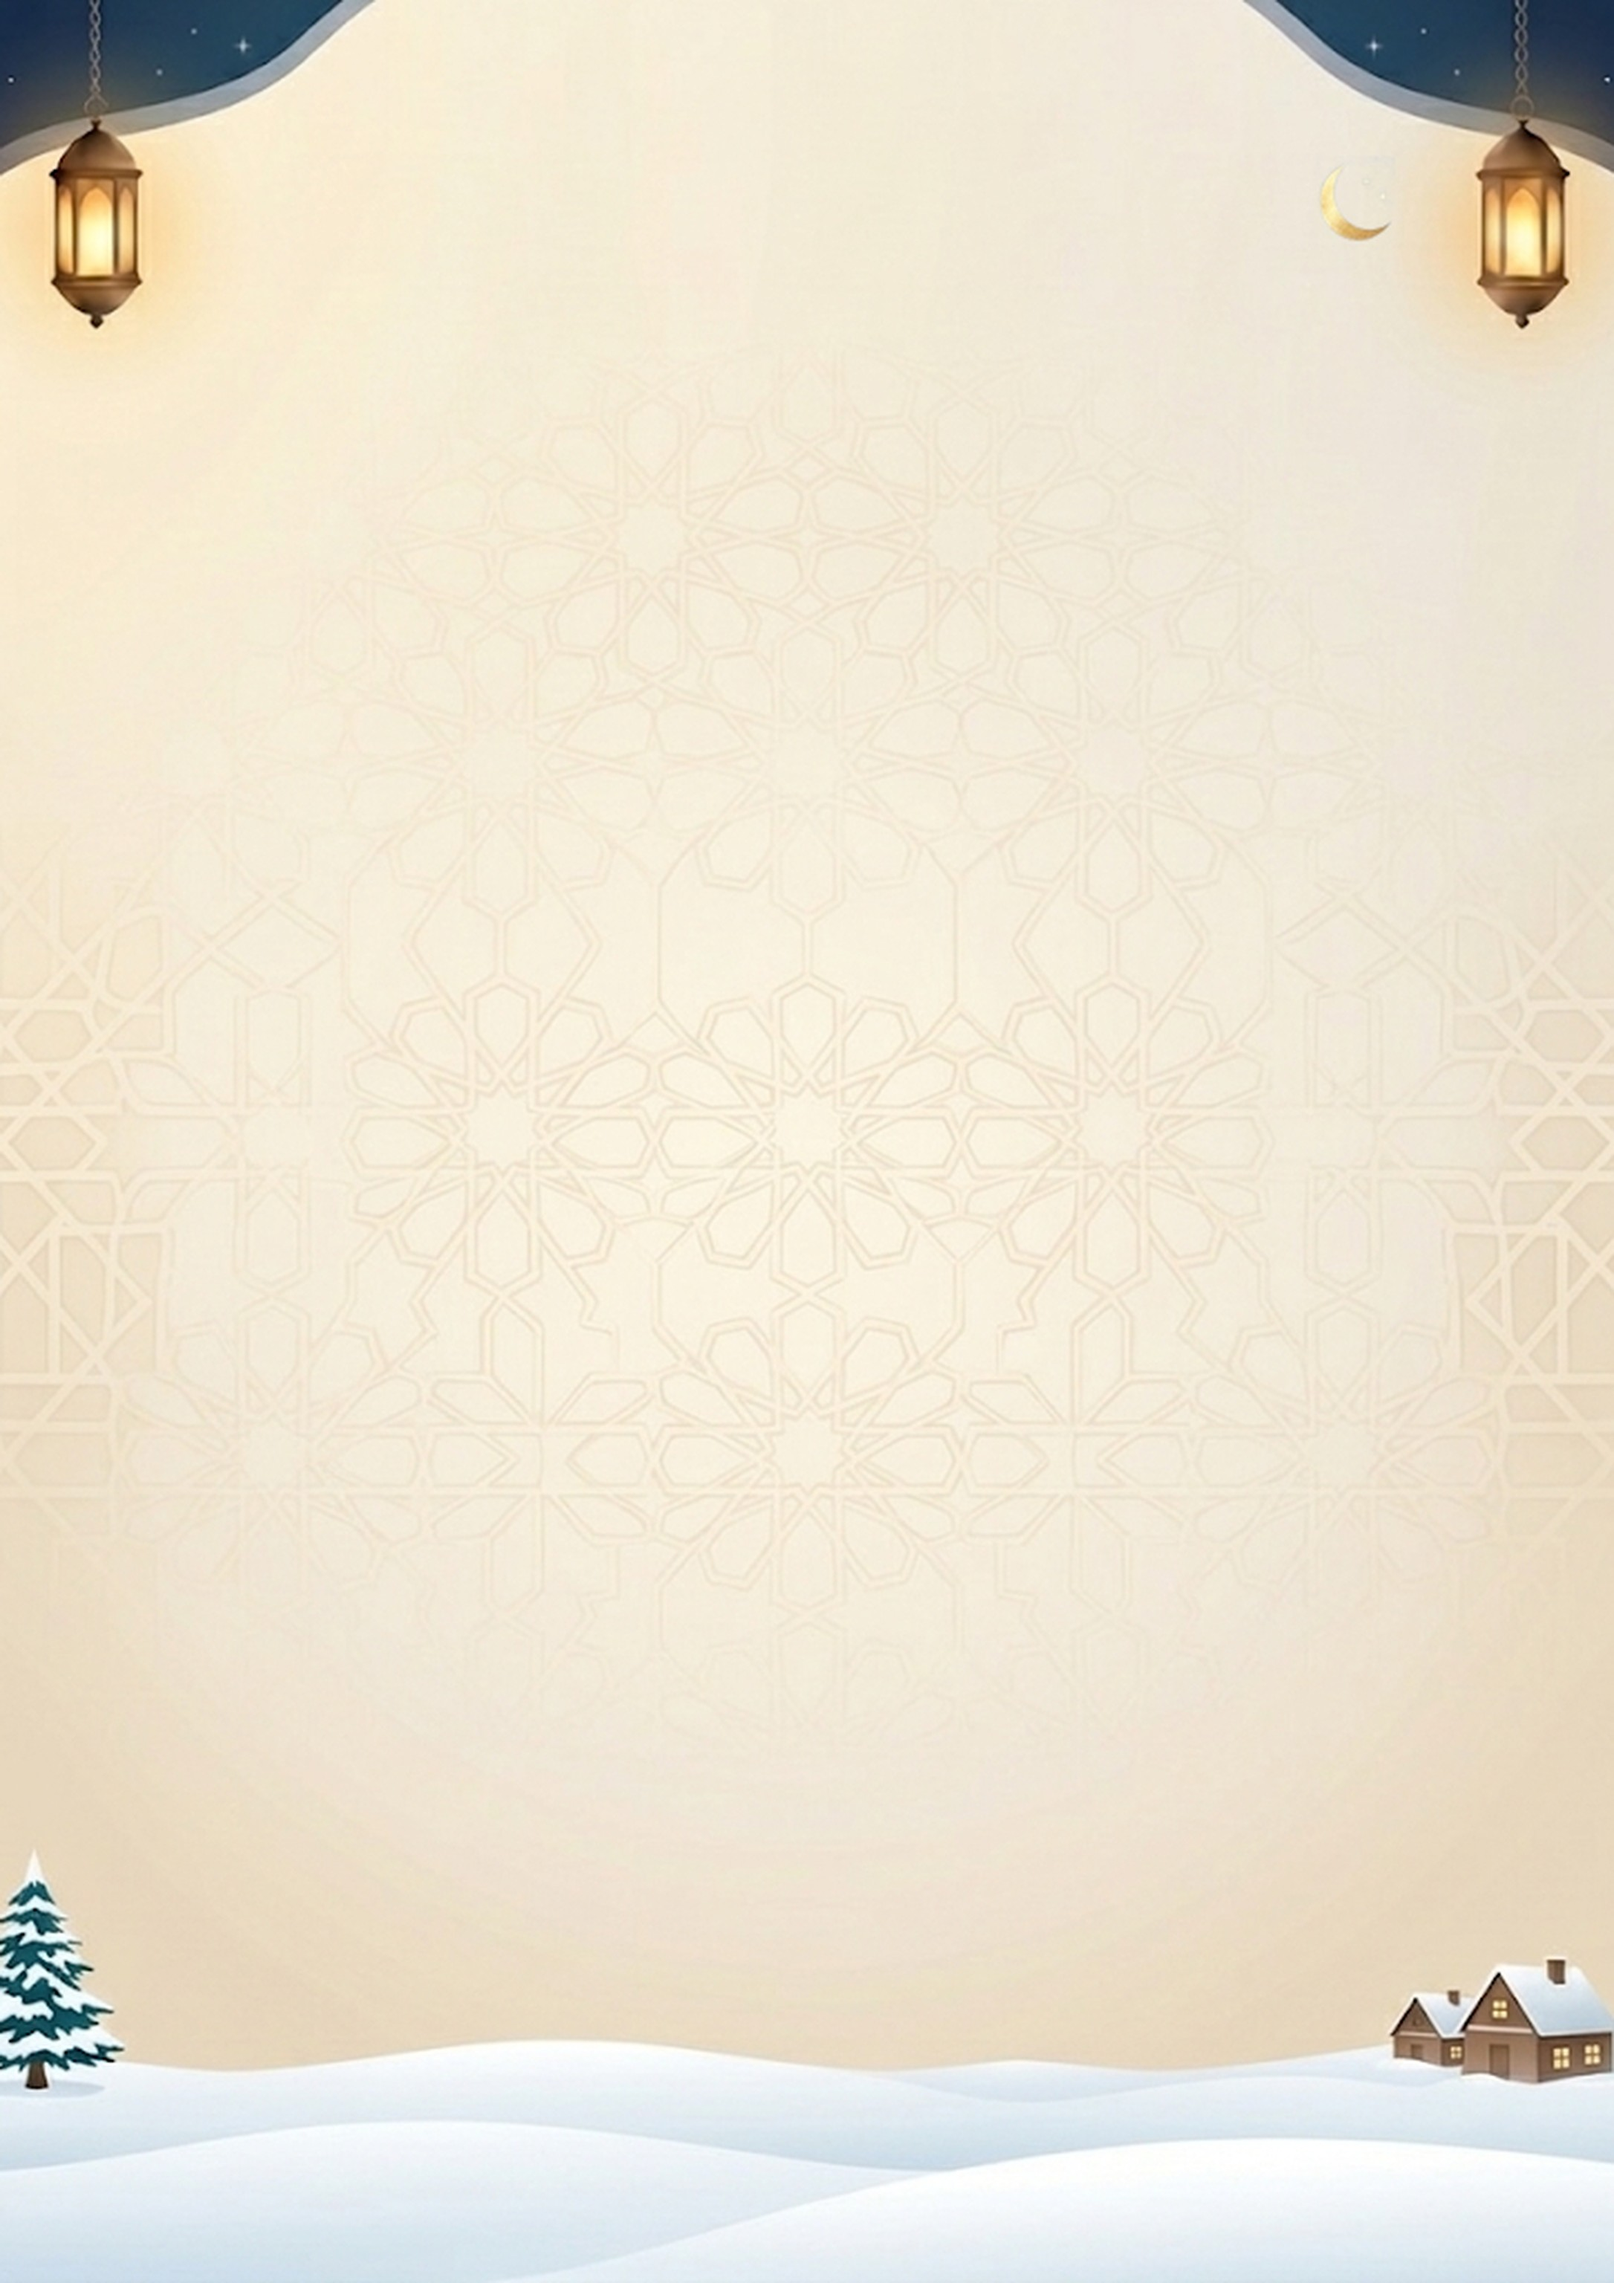
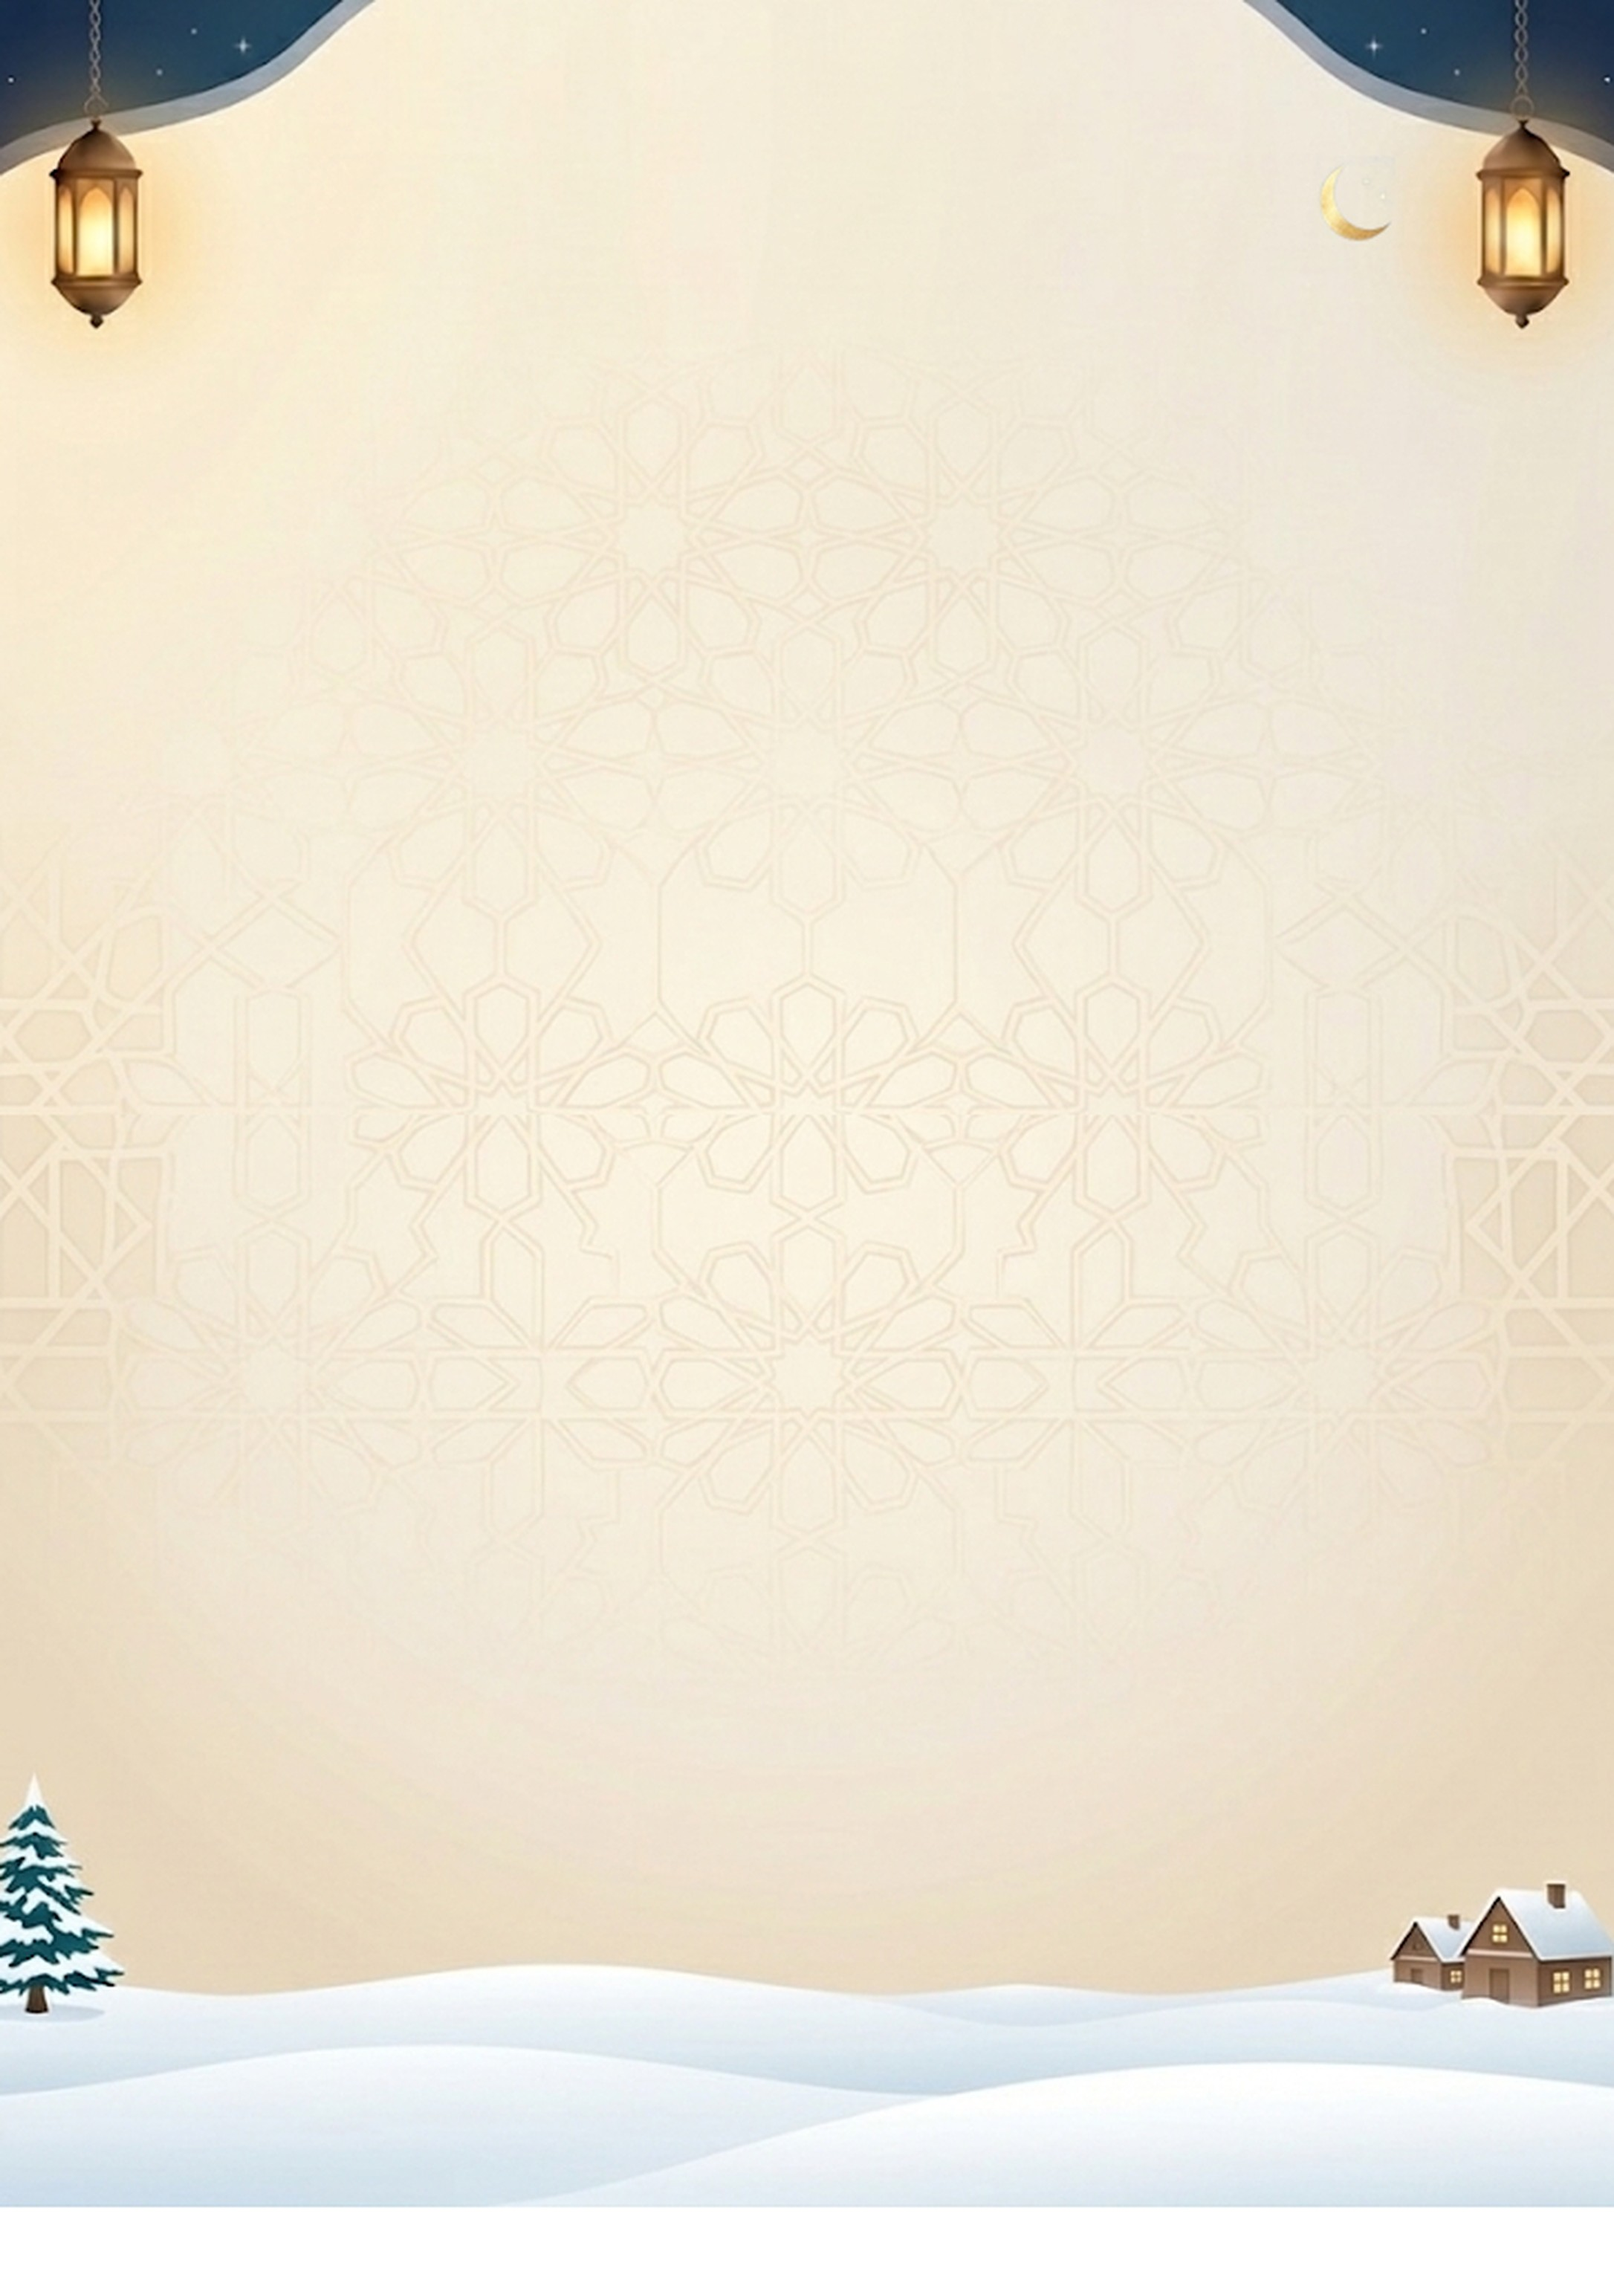
style: feuille Ramadan numérique, identité sur un bandeau blanc séparé par un filet doré dégradé pleine largeur

Changed region(s): [[0.0, 0.7812, 1.0, 1.0]]

diff --git a/css/ramadan.css b/css/ramadan.css
@@ -525,25 +525,12 @@ sup.ordinal {
 .page.digital {
     --surface-fast: var(--bg-terracotta-mid);
     /* version numérique (écran) : nuit d'hiver étoilée ; la version papier garde le fond crème économe en encre */
-    background: white url('../assets/img/ramadan-background-night.jpg') center / 100% 100% no-repeat;
-}
-
-/* Identité sur la neige : voile blanc estompé derrière le texte (lisibilité, sans bord visible) */
-.digital .ramadan-identity {
-    position: relative;
-    isolation: isolate;
-}
-
-.digital .ramadan-identity::before {
-    content: '';
-    position: absolute;
-    inset: -3mm -12mm;
-    z-index: -1;
-    background: radial-gradient(closest-side, rgb(255 255 255 / 0.92) 60%, rgb(255 255 255 / 0));
-}
-
-.digital .identity-contacts {
-    color: var(--col-text-light); /* coordonnées plus foncées sur la neige */
+    /* bandeau blanc de l'identité, séparé de la scène par un filet doré dégradé pleine largeur */
+    background:
+        linear-gradient(90deg, transparent, var(--deco-gold) 18%, #e3c983 50%, var(--deco-gold) 82%, transparent)
+            left 0 bottom var(--footer-h) / 100% 1.5px no-repeat,
+        linear-gradient(white, white) bottom / 100% var(--footer-h) no-repeat,
+        white url('../assets/img/ramadan-background-night.jpg') center / 100% 100% no-repeat;
 }
 
 /* En-tête entièrement bleu marine, textes clairs, filet bleu clair */
